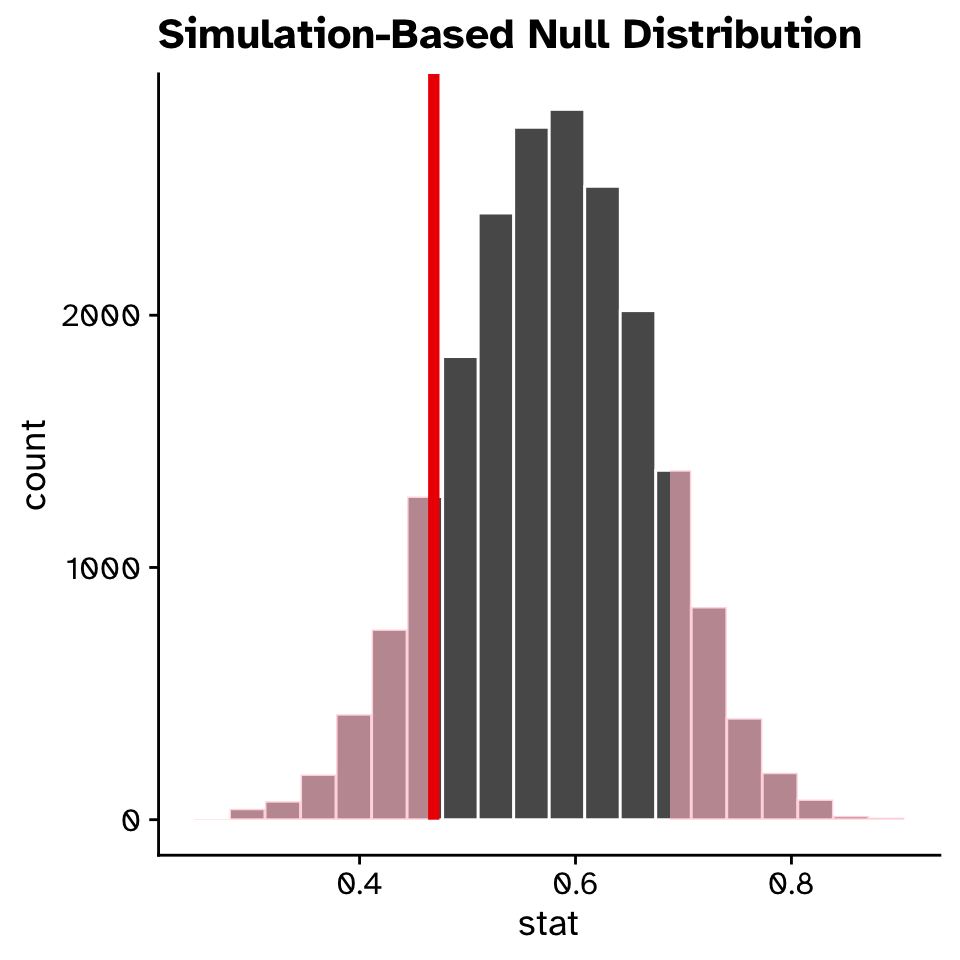
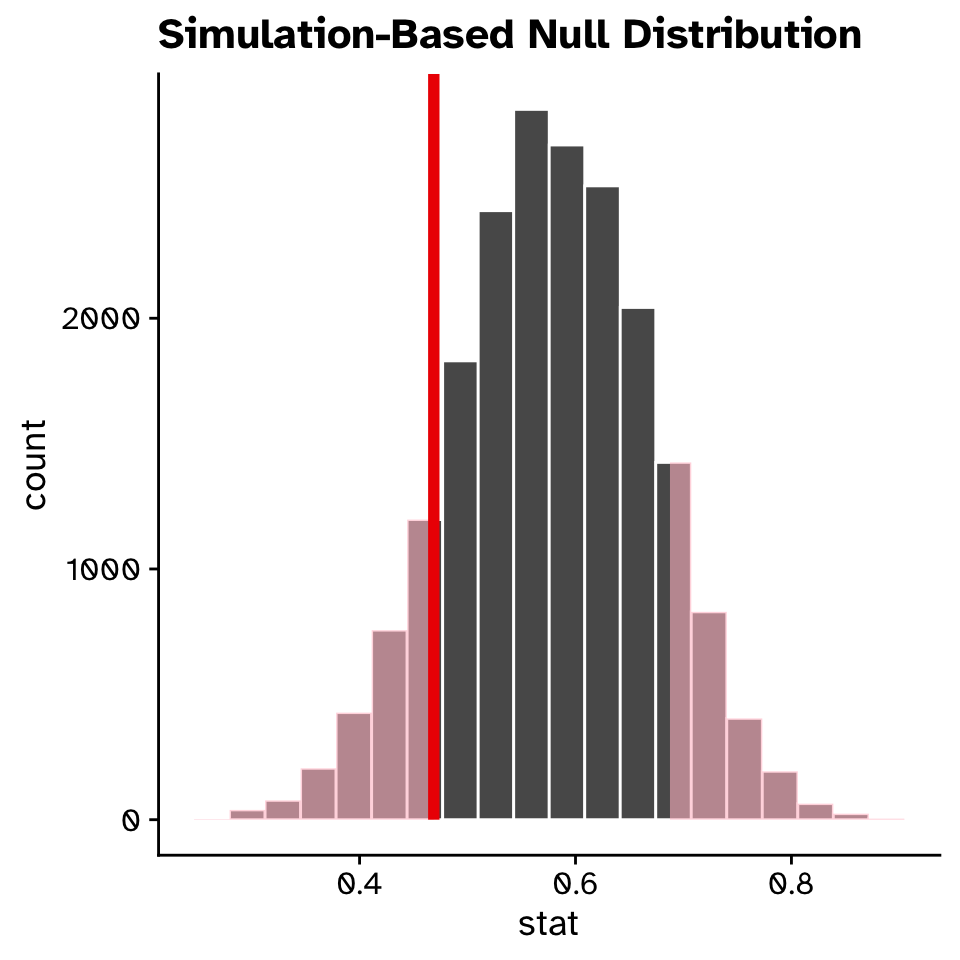
Built site for gh-pages

diff --git a/slides/02_scientific_method.html b/slides/02_scientific_method.html
@@ -164,7 +164,7 @@ Iain R. Moodie
 <li class="fragment">Why should we do science?</li>
 <li class="fragment">Discuss!</li>
 </ul>
-<div id="timer_0741cb55bbaafd1c2bb5321bbb16a91afb587fe8" class="countdown" data-warn-when="0" data-update-every="1" data-play-sound="false" data-blink-colon="false" data-start-immediately="false" tabindex="0" style="right: 0;bottom: 0;">
+<div id="timer_7334482959d04385cb572e088e3595c3796c975a" class="countdown" data-warn-when="0" data-update-every="1" data-play-sound="false" data-blink-colon="false" data-start-immediately="false" tabindex="0" style="right: 0;bottom: 0;">
   <div class="countdown-controls">
     <button class="countdown-bump-down">−</button>
     <button class="countdown-bump-up">+</button>
@@ -323,7 +323,7 @@ Iain R. Moodie
 <li class="fragment">Identify an observation</li>
 <li class="fragment">Formulate a hypothesis that could be tested.</li>
 </ul>
-<div id="timer_0741cb55bbaafd1c2bb5321bbb16a91afb587fe8" class="countdown" data-warn-when="0" data-update-every="1" data-play-sound="false" data-blink-colon="false" data-start-immediately="false" tabindex="0" style="right: 0;bottom: 0;">
+<div id="timer_7334482959d04385cb572e088e3595c3796c975a" class="countdown" data-warn-when="0" data-update-every="1" data-play-sound="false" data-blink-colon="false" data-start-immediately="false" tabindex="0" style="right: 0;bottom: 0;">
   <div class="countdown-controls">
     <button class="countdown-bump-down">−</button>
     <button class="countdown-bump-up">+</button>

diff --git a/slides/06_chisq.html b/slides/06_chisq.html
@@ -12,7 +12,7 @@
   <meta name="generator" content="quarto-1.6.42">
 
   <meta name="author" content="Iain R. Moodie">
-  <meta name="dcterms.date" content="2025-04-01">
+  <meta name="dcterms.date" content="2025-04-02">
   <title>BIOB11 – Test of and associations between categorical variables</title>
   <meta name="apple-mobile-web-app-capable" content="yes">
   <meta name="apple-mobile-web-app-status-bar-style" content="black-translucent">
@@ -218,7 +218,7 @@ Iain R. Moodie
     </div>
 </div>
 
-  <p class="date">2025-04-01</p>
+  <p class="date">2025-04-02</p>
 </section>
 <section>
 <section id="tests-of-proportion" class="title-slide slide level1 center" data-background-color="#015b58">
@@ -269,15 +269,15 @@ Iain R. Moodie
    preference
    &lt;chr&gt;     
  1 dog       
- 2 dog       
- 3 dog       
+ 2 cat       
+ 3 cat       
  4 dog       
  5 dog       
- 6 cat       
+ 6 dog       
  7 dog       
  8 cat       
  9 cat       
-10 dog       
+10 cat       
 # ℹ 22 more rows</code></pre>
 </div>
 </div>
@@ -337,7 +337,7 @@ Iain R. Moodie
 <pre><code># A tibble: 1 × 1
   p_value
     &lt;dbl&gt;
-1   0.275</code></pre>
+1   0.270</code></pre>
 </div>
 </div>
 </section></section>

diff --git a/slides.html b/slides.html
@@ -339,12 +339,12 @@ Lecture
 <a href="./slides/05_theory_based_statistics.html" class="title listing-title">Theory based statistics (when sample sizes are small)</a>
 </td>
 </tr>
-<tr data-index="6" data-listing-date-sort="1743458400000" data-listing-file-modified-sort="1743587625799" data-listing-date-modified-sort="NaN" data-listing-reading-time-sort="6" data-listing-word-count-sort="1132" data-listing-title-sort="Test of and associations between categorical variables" data-listing-filename-sort="06_chisq.qmd">
+<tr data-index="6" data-listing-date-sort="1743544800000" data-listing-file-modified-sort="1743587860709" data-listing-date-modified-sort="NaN" data-listing-reading-time-sort="6" data-listing-word-count-sort="1132" data-listing-title-sort="Test of and associations between categorical variables" data-listing-filename-sort="06_chisq.qmd">
 <td>
 <span class="listing-subtitle">Lecture 6</span>
 </td>
 <td>
-<span class="listing-date">2025-04-01</span>
+<span class="listing-date">2025-04-02</span>
 </td>
 <td>
 <a href="./slides/06_chisq.html" class="title listing-title">Test of and associations between categorical variables</a>

diff --git a/slides/00_introduction.html b/slides/00_introduction.html
@@ -327,7 +327,7 @@ Iain R. Moodie
 <li>Are you a dog or cat person (you must choose one!)</li>
 <li>What you hope to get out of this course</li>
 </ul>
-<div id="timer_6a5b5e9e310b9a3eef530d25182ac8b4087c48f1" class="countdown" data-warn-when="0" data-update-every="1" data-play-sound="false" data-blink-colon="false" data-start-immediately="false" tabindex="0" style="right: 0;bottom: 0;">
+<div id="timer_83efded512c60d698e97178948e13f661a9f3771" class="countdown" data-warn-when="0" data-update-every="1" data-play-sound="false" data-blink-colon="false" data-start-immediately="false" tabindex="0" style="right: 0;bottom: 0;">
   <div class="countdown-controls">
     <button class="countdown-bump-down">−</button>
     <button class="countdown-bump-up">+</button>
